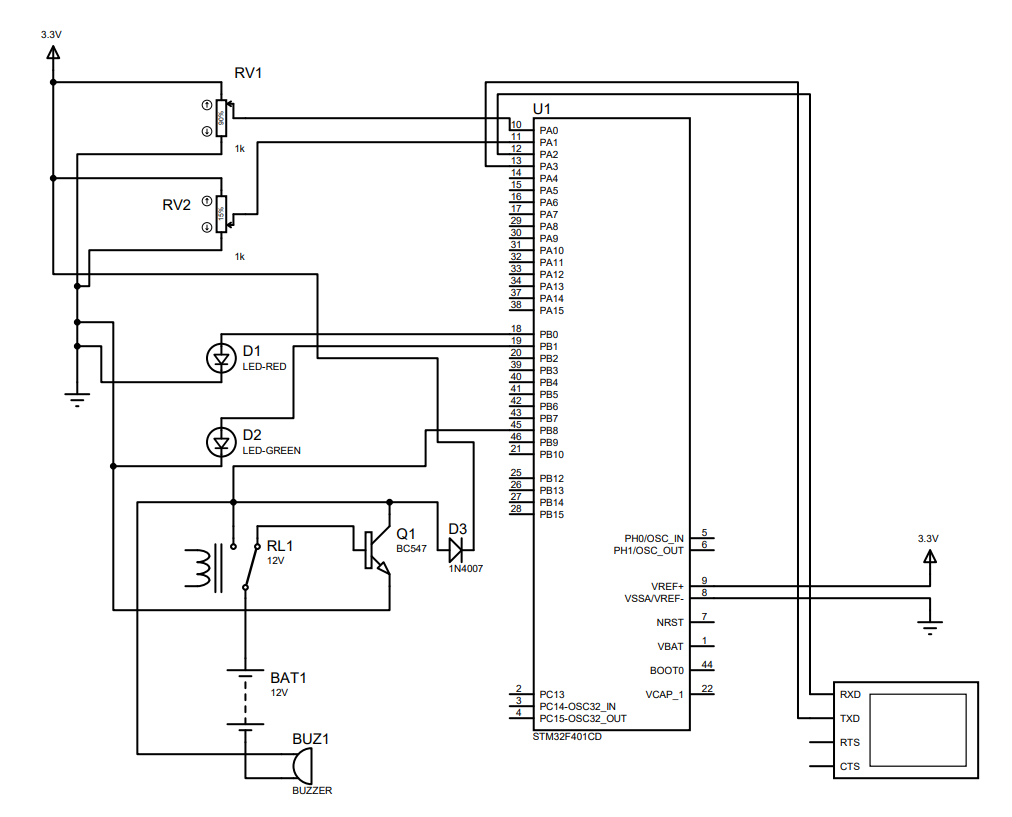
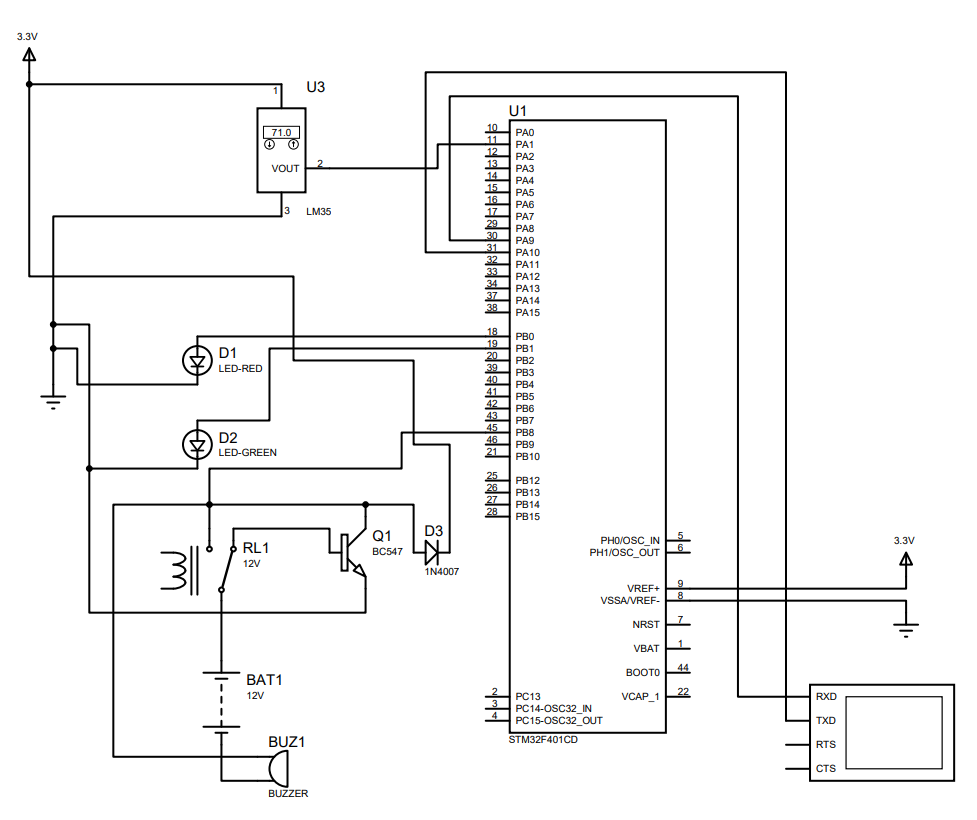
update report

diff --git a/Report/main.tex b/Report/main.tex
@@ -229,9 +229,9 @@
 \subsection{Deskripsi Metode dan Integrasi Future Work}
 \hspace{1.5em}Metode DMCM-WVAF merekayasa interaksi dinamis antara sensor dan aktuator secara radikal dengan memadukan kelima \textit{future work} (FW1--FW5) langsung pada lapisan perangkat keras dasar (\textit{bare-metal} C/C++). Integrasi ini membentuk satu ekosistem program yang padat energi, hemat memori, dan deterministik tanpa memerlukan beban operasi dari kernel RTOS pihak ketiga.
 
-Pengondisian sinyal adaptif (FW1) dan penekanan noise $kT/C$ (FW2) dilebur ke dalam pilar pertama melalui fungsi penyaringan \textit{Variable-Window Adaptive Filtering} (WVAF). Alur ini dikendalikan secara langsung oleh pembacaan register data ADC internal (\texttt{ADC1->DR}). Berbeda dengan filter konvensional yang kaku, ukuran jendela data ($W_k$) pada algoritma ini bergeser secara atomik. Pada kondisi mantap, program mengalokasikan memori melingkar (\textit{circular buffer}) untuk ukuran maksimal $W_{\max}=16$ guna mereduksi riak noise kelistrikan. Namun, begitu impuls transien ekstrem terdeteksi ($\Delta V_k > \theta$), pointer indeks jendela dipangkas secara instan menuju ukuran minimal $W_{\min}=2$ demi membuang tundaan fasa (\textit{phase lag}) filter secara total.
+Pengondisian sinyal adaptif (FW1) dan penekanan noise $kT/C$ (FW2) dilebur ke dalam pilar pertama melalui fungsi penyaringan \textit{Variable-Window Adaptive Filtering} (WVAF). Alur ini dikendalikan secara langsung oleh pembacaan data ADC dari sensor LM35 melalui fungsi \texttt{WVAF\_Filter()} yang dipanggil di dalam ISR setelah setiap akuisisi ADC1 Channel 1 pada pin PA1. Berbeda dengan filter konvensional yang kaku, ukuran jendela data ($W_k$) pada algoritma ini bergeser secara atomik. Pada kondisi mantap, program mengalokasikan memori melingkar (\textit{circular buffer}) untuk ukuran maksimal $W_{\max}=16$ guna mereduksi riak noise pembacaan sensor. Namun, begitu impuls transien ekstrem terdeteksi ($\Delta k > 200$~ADC counts — setara dengan perubahan suhu drastis), pointer indeks jendela dipangkas secara instan menuju ukuran minimal $W_{\min}=2$ demi membuang tundaan fasa (\textit{phase lag}) filter secara total.
 
-Jaminan proteksi integritas sistem terhadap galat fungsional (FW3) dan partisi tingkat kepentingan komponen (\textit{mixed-criticality} - FW4) diselesaikan melalui \textit{Software-Based Temporal Partitioning} (SBTP). Metode ini memanfaatkan manipulasi register kendali perangkat keras Timer 2 internal, yaitu register \texttt{TIM2->DIER} (untuk mengaktifkan interupsi pembaruan berkala via bit \texttt{UIE}) dan register \texttt{TIM2->CR1} (untuk aktivasi counter melalui bit \texttt{CEN}). Kode pemrograman mengisolasi seluruh tugas fungsional vital instrumentasi (akuisisi ADC, kalkulasi filter adaptif, evaluasi ambang batas, dan \textit{driving} pin output) ke dalam \textit{Safety-Critical Zone} yang berjalan secara mutlak di dalam \textit{Interrupt Service Routine} (ISR) berkala 5~ms. Jika terjadi kondisi macet (\textit{hang/stuck}) pada kode latar belakang \textit{best-effort} di Zona Non-Kritis (\texttt{while(1)}), interupsi hardware tetap memaksa CPU untuk mengeksekusi fungsi keselamatan tepat waktu.
+Jaminan proteksi integritas sistem terhadap galat fungsional (FW3) dan partisi tingkat kepentingan komponen (\textit{mixed-criticality} - FW4) diselesaikan melalui \textit{Software-Based Temporal Partitioning} (SBTP). Metode ini memanfaatkan manipulasi register kendali perangkat keras Timer 2 internal, yaitu register \texttt{TIM2->DIER} (untuk mengaktifkan interupsi pembaruan berkala via bit \texttt{UIE}) dan register \texttt{TIM2->CR1} (untuk aktivasi counter melalui bit \texttt{CEN}). Kode pemrograman mengisolasi seluruh tugas fungsional vital instrumentasi (akuisisi ADC Channel~1 PA1, kalkulasi filter WVAF adaptif, evaluasi ambang batas, dan \textit{driving} pin output) ke dalam \textit{Safety-Critical Zone} yang berjalan secara mutlak di dalam \textit{Interrupt Service Routine} (ISR) berkala 5~ms melalui callback \texttt{HAL\_TIM\_PeriodElapsedCallback()}. Zona Non-Kritis di \texttt{while(1)} hanya melakukan \texttt{HAL\_Delay(50)} dan me-reset variabel \texttt{crit\_flag}. Jika terjadi kondisi macet (\textit{hang/stuck}) pada kode latar belakang \textit{best-effort} di Zona Non-Kritis, interupsi hardware tetap memaksa CPU untuk mengeksekusi fungsi keselamatan tepat waktu.
 
 Optimasi latensi respon dan eliminasi \textit{timing jitter} (FW5) diwujudkan melalui mekanisme pemetaan keputusan \textit{Constant-Time} $O(1)$ State-Matrix. Alur kontrol tidak lagi menggunakan instruksi percabangan bersarang (\textit{if-else/switch-case}) yang menghasilkan variasi waktu eksekusi akibat ketidakpastian jalur instruksi assembly. Sebagai gantinya, status sensor $S_k$ dan mode operasi $M_k$ langsung dikonversi menjadi indeks array 2D konstan yang disimpan di memori FLASH. Perintah aktuasi kemudian dieksekusi menggunakan manipulasi bit-masking berkecepatan tinggi pada register atomik \texttt{GPIOB->BSRR} (\textit{Bit Set/Reset Register}) untuk menggerakkan pin PB0, PB1, dan PB8 secara instan.
 
@@ -248,19 +248,19 @@ Optimasi latensi respon dan eliminasi \textit{timing jitter} (FW5) diwujudkan me
 
     % ── COLUMN 1: SENSOR LAYER
     \node[ieeeBlock] (physSens) at (0, 0) {
-        \textbf{Physical Sensors}\\
-        \scriptsize RV1 (PA0) \& RV2 (PA1)\\
-        \scriptsize $s_1(t), s_2(t)$ (Analog)
+        \textbf{Physical Sensor}\\
+        \scriptsize LM35 (PA1)\\
+        \scriptsize $s(t)$ (Analog)
     }; 
     \node[ieeeShadedBlock] (adc) at (0, -2.6) {
         \textbf{12-Bit ADC}\\
-        \scriptsize STM32F401 Scan Mode\\
+        \scriptsize STM32F401 ADC1 Channel 1\\
         \scriptsize Output: $x_k \in [0, 4095]$
     }; 
     \node[ieeeBlock] (wvaf) at (0, -5.4) {
         \textbf{WVAF Filter}\\
-        \scriptsize $\Delta V_k = |x_k - x_{k-1}|$\\[3pt]
-        \scriptsize $W_k = \begin{cases} 2, & \Delta V_k > \theta \\ 16, & \Delta V_k \le \theta \end{cases}$\\ [3pt]
+        \scriptsize $\Delta T_k = |x_k - x_{k-1}|$\\[3pt]
+        \scriptsize $W_k = \begin{cases} 2, & \Delta k > 200 \\ 16, & \Delta k \le 200 \end{cases}$\\ [3pt]
         \scriptsize Output: $y_k = \text{avg}(x_k, W_k)$
     }; 
 
@@ -284,8 +284,8 @@ Optimasi latensi respon dan eliminasi \textit{timing jitter} (FW5) diwujudkan me
     \node[ieeeBlock, dashed] (nonCrit) at (5.8, -8.0) {
         \textbf{Non-Critical Tasks}\\
         \scriptsize Best-Effort Context (\texttt{while(1)})\\
-        \scriptsize UART Telemetry, LCD Update,\\
-        \scriptsize Flash Data Logging
+        \scriptsize \texttt{HAL\_Delay(50)} + reset \texttt{crit\_flag}\\
+        \scriptsize ADC dibaca langsung di ISR
     };
 
     % ── COLUMN 3: ACTUATOR LAYER
@@ -303,12 +303,12 @@ Optimasi latensi respon dan eliminasi \textit{timing jitter} (FW5) diwujudkan me
         \scriptsize Warning Status (PB0)
     }; 
     \node[ieeeSubBlock] (relay) at (12.2, -5.4) {
-        \textbf{Relay \& Buzzer}\\
+        \textbf{Relay}\\
         \scriptsize Danger Alarm (PB8)
     }; 
     \node[ieeeShadedBlock] (uart) at (12.2, -8.0) {
-        \textbf{UART Serial Monitor}\\
-        \scriptsize PA2 (TX) @ 9600~bps\\
+        \textbf{USART1 Serial Monitor}\\
+        \scriptsize PA9 (TX) @ 9600~bps\\
         \scriptsize Telemetry Logging
     };
 
@@ -358,10 +358,10 @@ Optimasi latensi respon dan eliminasi \textit{timing jitter} (FW5) diwujudkan me
     }; 
     \node[ieeeLoop] (whileLoop) at (0, -5.4) {while(1)}; 
     \node[ieeeBlock, text width=4.5cm] (bgTasks) at (0, -7.4) {
-        \textbf{Non-Critical Background Tasks}\\
-        \scriptsize $\bullet$ \texttt{LCD\_UpdateDisplay()}\\
-        \scriptsize \texttt{Log\_DataToFlash()}\\
-        \scriptsize $\bullet$ \texttt{HAL\_Delay(50)} [Best-effort]
+        \textbf{Non-Critical Tasks}\\
+        \scriptsize \texttt{HAL\_Delay(50)} + reset \texttt{crit\_flag}\\
+        \scriptsize ADC dibaca langsung di ISR\\
+        \scriptsize [Best-effort background loop]
     };
 
     % Main Loop Arrows
@@ -378,14 +378,14 @@ Optimasi latensi respon dan eliminasi \textit{timing jitter} (FW5) diwujudkan me
         \scriptsize Set \texttt{critical\_flag = 1}
     }; 
     \node[ieeeFcProcess] (readADC) at (7.5, -3.2) {
-        \textbf{1. Read ADC Channel}\\
-        \scriptsize Sample $x_k = \text{ADC1}\rightarrow\text{DR}$
+        \textbf{1. Read ADC (PA1 — LM35)}\\
+        \scriptsize Poll ADC1\_CH1 $\to x_k$
     }; 
     \node[ieeeFcProcess] (calcDelta) at (7.5, -5.0) {
         \textbf{2. Compute Delta}\\
-        \scriptsize $\Delta V_k = |x_k - x_{k-1}|$
+        \scriptsize $\Delta T_k = |x_k - x_{k-1}|$
     }; 
-    \node[ieeeFcDecision] (decDelta) at (7.5, -7.2) { $\Delta V_k > \theta$?\\ \scriptsize ($\theta = 200$) }; 
+    \node[ieeeFcDecision] (decDelta) at (7.5, -7.2) { $\Delta k > \theta$?\\ \scriptsize ($\theta = 200$ ADC) }; 
 
     % Symmetrical branches with highly comfortable space allocation
     \node[ieeeFcSubBlock] (wMax) at (4.5, -9.4) {
@@ -419,7 +419,7 @@ Optimasi latensi respon dan eliminasi \textit{timing jitter} (FW5) diwujudkan me
     }; 
     \node[ieeeFcSubBlock] (sDang) at (10.7, -18.2) {
         \textbf{Danger ($S_k=2$)}\\
-        \scriptsize Relay \& Buzzer On
+        \scriptsize Relay \& Red LED On
     };
 
     % Bottom Flow Operations properly separated
@@ -468,24 +468,22 @@ Optimasi latensi respon dan eliminasi \textit{timing jitter} (FW5) diwujudkan me
 \hspace{1.5em}Metode baru ini mengkristalisasi konsep dalam 3 pilar utama:
 
 \subsubsection{Variable-Window Adaptive Filtering (WVAF)}
-\hspace{1.5em}WVAF adalah algoritma penyaringan data analog adaptif yang memanipulasi ukuran jendela (\textit{window size}) $W_k$ secara \textit{on-the-fly} berdasarkan perbedaan absolut laju data ADC $\Delta V_k = |x_k - x_{k-1}|$. Jendela filter dirancang menyusut secara instan hingga ukuran minimum ($W_{\min} = 2$) ketika terjadi perubahan drastis untuk memangkas penundaan fasa (\textit{phase delay}) filter, dan membesar secara bertahap hingga ukuran maksimum ($W_{\max} = 16$) saat data stabil untuk menekan noise termal dan kesalahan kuantisasi ADC.
+\hspace{1.5em}WVAF adalah algoritma penyaringan data sensor suhu adaptif yang memanipulasi ukuran jendela (\textit{window size}) $W_k$ secara \textit{on-the-fly} berdasarkan perbedaan absolut nilai ADC mentah $\Delta k = |x_k - x_{k-1}|$. Jendela filter dirancang menyusut secara instan hingga ukuran minimum ($W_{\min} = 2$) ketika terjadi perubahan drastis ($\Delta k > 200$ ADC counts) untuk memangkas penundaan fasa (\textit{phase delay}) filter, dan membesar secara bertahap hingga ukuran maksimum ($W_{\max} = 16$) saat data stabil untuk menekan noise termal dan kesalahan kuantisasi sensor LM35.
 
 Formulasi matematisnya didefinisikan sebagai berikut:
 \begin{equation}
-\Delta V_k = |x_k - x_{k-1}|
+\Delta T_k = |x_k - x_{k-1}|
 \end{equation}
 \begin{equation}
-W_k = \begin{cases} W_{\min} = 2, & \text{jika } \Delta V_k > \theta \\ W_{\max} = 16, & \text{jika } \Delta V_k \le \theta \end{cases}
+W_k = \begin{cases} W_{\min} = 2, & \text{jika } \Delta k > \theta \\ W_{\max} = 16, & \text{jika } \Delta k \le \theta \end{cases}
 \end{equation}
 \begin{equation}
 y_k = \frac{1}{W_k}\sum_{i=0}^{W_k-1} x_{k-i}
 \end{equation}
-Di mana $\theta$ adalah ambang perubahan dinamis (\textit{delta threshold}) yang dikonfigurasi sebesar 200 unit ADC.
+Di mana $\theta = 200$ ADC counts adalah ambang perubahan dinamis (\textit{delta threshold}) yang dikonfigurasi pada firmware (\texttt{\#define DELTA\_THRESH 200}), $x_k$ menyatakan nilai ADC mentah (0--4095) dari sensor LM35 pada langkah ke-$k$, dan $y_k$ adalah nilai ADC tersaring. Nilai suhu dalam derajat Celsius diperoleh melalui konversi $T(^\circ\text{C}) = x_k \times 330 / 4096$.
 
 \subsubsection{Software-Based Temporal Partitioning (SBTP)}
-\hspace{1.5em}SBTP memisahkan fungsi keselamatan sistem instrumentasi ke dalam sebuah \textbf{Zona Kritis} (Safety-Critical Zone) yang dipicu oleh interupsi perangkat keras periodik berlatensi rendah (Hardware Interrupt TIM2 setiap 5~ms). Seluruh operasi kritis (akuisisi ADC, filter WVAF, evaluasi status, \textit{matrix mapping}, kontrol aktuator, dan serial log) berjalan secara deterministik di dalam ISR (\textit{Interrupt Service Routine}).
-
-Di sisi lain, tugas pelengkap seperti pembaruan LCD, komputasi non-vital, dan penyimpanan data FLASH diletakkan pada \textbf{Zona Non-Kritis} di \texttt{while(1)} background loop. Bila terjadi kemacetan (\textit{stuck/hang}) akibat kegagalan perangkat lunak di Zona Non-Kritis, interupsi perangkat keras TIM2 tetap menjamin Zona Kritis dieksekusi secara periodik dan tepat waktu demi menjaga keselamatan fisik sistem instrumentasi.
+\hspace{1.5em}SBTP memisahkan fungsi keselamatan sistem instrumentasi ke dalam sebuah \textbf{Zona Kritis} (Safety-Critical Zone) yang dipicu oleh interupsi perangkat keras periodik berlatensi rendah (Hardware Interrupt TIM2 setiap 5~ms), dan \textbf{Zona Non-Kritis} yang berjalan di background loop \texttt{while(1)}. Seluruh operasi kritis dilakukan langsung di dalam ISR \texttt{HAL\_TIM\_PeriodElapsedCallback()}: akuisisi ADC Channel~1 (PA1 --- LM35 VOUT) secara polling, komputasi filter WVAF, evaluasi status sensor, \textit{O(1) state matrix} lookup aktuator, kontrol pin output PB0/PB1/PB8 via \texttt{HAL\_GPIO\_WritePin()}, dan pengiriman log telemetri via USART1 (PA9~TX). Zona Non-Kritis di \texttt{while(1)} hanya mengeksekusi \texttt{HAL\_Delay(50)} dan me-reset \texttt{crit\_flag = 0}. Bila terjadi kemacetan (\textit{stuck/hang}) akibat kegagalan perangkat lunak di Zona Non-Kritis, interupsi perangkat keras TIM2 tetap menjamin Zona Kritis dieksekusi secara periodik tepat waktu demi menjaga keselamatan fisik sistem.
 
 \subsubsection{Constant-Time $O(1)$ State-Matrix Mapping}
 \hspace{1.5em}Logika pengambilan keputusan untuk mengontrol aktuator dipetakan ke dalam array 2D konstan yang disimpan di memori FLASH:
@@ -499,7 +497,7 @@ u_k = \mathbf{M}[S_k][M_k]
 % ═════════════════════════════════════════════════════════════
 \section{Simulasi dan Hasil}
 \subsection{Alat dan Perangkat Lunak}
-\hspace{1.5em}To memvalidasi metode baru yang diusulkan, sebuah platform simulasi terpadu dibangun menggunakan spesifikasi berikut:
+\hspace{1.5em}Untuk memvalidasi metode baru yang diusulkan, sebuah platform simulasi terpadu dibangun menggunakan spesifikasi berikut:
 \begin{itemize}
     \item \textbf{Simulator Perangkat Keras:} Proteus Professional 8.17 (mensimulasikan sirkuit pada tingkat gerbang logika dan transistor secara interaktif).
     \item \textbf{IDE Firmware:} Keil $\mu$Vision v5.38 dengan opsi compiler \textbf{ARM Compiler 6 (AC6)} untuk optimasi memori dan eksekusi instruksi Cortex-M4.
@@ -512,10 +510,10 @@ u_k = \mathbf{M}[S_k][M_k]
 \hspace{1.5em}Skema rangkaian elektronika dirancang secara presisi pada simulator Proteus seperti yang ditunjukkan pada Gambar \ref{fig:skema_proteus}. Detail integrasi pengabelan pin-ke-pin diatur sebagai berikut:
 \begin{enumerate}
     \item \textbf{Mikrokontroler (U1):} Komponen utama menggunakan model IC STM32F401CD. Pin suplai referensi internal ditenagai secara stabil dengan menghubungkan pin \texttt{VREF+} (pin 9) ke jalur tegangan positif 3.3~V dan pin \texttt{VSSA/VREF-} (pin 8) langsung terikat pada Ground (GND).
-    \item \textbf{Input Sensor (RV1 \& RV2):} Menggunakan dua buah potensiometer linier $1\text{~k}\Omega$ sebagai simulator parameter fisik fisis. Wiper (panah tengah) komponen RV1 dihubungkan ke pin \texttt{PA0} (ADC1\_IN0) sebagai sensor kritis, sedangkan wiper RV2 dihubungkan ke pin \texttt{PA1} (ADC1\_IN1) sebagai sensor regular. Kaki atas kedua komponen dihubungkan ke suplai 3.3~V dan kaki bawah ke Ground.
+    \item \textbf{Input Sensor (LM35):} Menggunakan sebuah sensor suhu LM35 sebagai pengukur parameter fisis suhu lingkungan. Pin VOUT dari sensor LM35 dihubungkan langsung ke pin \texttt{PA1} (ADC1\_IN1) pada mikrokontroler STM32F401 untuk dikonversi menjadi data digital 12-bit (resolusi ADC $=$ 3.3V/4096 $\approx$ 0.806~mV/LSB). Kaki VCC dihubungkan ke suplai 3.3~V dan kaki GND dihubungkan ke Ground.
     \item \textbf{LED Indikator (D1 \& D2):} LED berwarna merah (\texttt{D1 / LED-RED}) dikonfigurasi sebagai alarm visual kondisi bahaya dan terhubung ke pin \texttt{PB0}. LED berwarna hijau (\texttt{D2 / LED-GREEN}) dihubungkan ke pin \texttt{PB1} sebagai penanda status operasi aman. Katode dari kedua komponen LED disatukan menuju Ground.
     \item \textbf{Aktuator Darurat dan Driver Transistor (Q1, RL1, D3, BUZ1):} Jalur output digital pin \texttt{PB8} dihubungkan langsung ke kaki basis transistor NPN BC547 (\texttt{Q1}). Kolektor transistor bertindak sebagai driver \textit{active-high} untuk mengaktifkan koil kumparan Relay bertegangan kerja 12V (\texttt{RL1}), yang diproteksi secara paralel oleh dioda \textit{flyback} 1N4007 (\texttt{D3}) menuju rel daya VCC. Kontak sakelar \textit{Normally Open} (NO) pada relay dipasang seri dengan baterai 12~V (\texttt{BAT1}) untuk mengaktifkan alarm klakson/buzzer darurat (\texttt{BUZ1}).
-    \item \textbf{Komunikasi Serial (Virtual Terminal):} Untuk debugging telemetri, jalur serial asinkron mikrokontroler menggunakan pin \texttt{PA2} (USART2\_TX) yang dihubungkan ke pin \text{RXD} pada Virtual Terminal, dan pin \texttt{PA3} (USART2\_RX) dihubungkan ke pin \text{TXD} pada Virtual Terminal dengan kecepatan baudrate standar 9600~bps.
+    \item \textbf{Komunikasi Serial (Virtual Terminal):} Untuk debugging telemetri, jalur serial asinkron mikrokontroler menggunakan pin \texttt{PA9} (USART1\_TX) yang dihubungkan ke pin \text{RXD} pada Virtual Terminal, dan pin \texttt{PA10} (USART1\_RX) dihubungkan ke pin \text{TXD} pada Virtual Terminal dengan kecepatan baudrate standar 9600~bps.
 \end{enumerate}
 
 \begin{figure}[htbp]
@@ -550,15 +548,15 @@ Data mentah telemetri simulasi tersebut diekspor dalam format CSV (\texttt{data.
 \begin{figure}[htbp]
 \centering
 \includegraphics[width=0.92\textwidth]{dmcm_ieee.png}
-\caption{Visualisasi Data Hasil Simulasi DMCM-WVAF Menggunakan GNUPlot. Panel (a) ADC Raw vs WVAF Filtered; Panel (b) Window Size ($N_{\text{win}}$) dan Impuls Perubahan Absolut ($|\Delta V|$); Panel (c) Criticality Level / System State ($S_k$); Panel (d) Sinyal Kontrol Aktuator digital (Green LED, Red LED, Relay).}\label{fig:dmcm_ieee}
+\caption{Visualisasi Data Hasil Simulasi DMCM-WVAF Menggunakan GNUPlot. Panel (a) Raw Temperature vs WVAF Filtered Temperature; Panel (b) Window Size ($N_{\text{win}}$) dan Impuls Perubahan Absolut ($|\Delta T|$); Panel (c) Criticality Level / System State ($S_k$); Panel (d) Sinyal Kontrol Aktuator digital (Green LED, Red LED, Relay).}\label{fig:dmcm_ieee}
 \end{figure}
 
 Grafik Gambar \ref{fig:dmcm_ieee} menunjukkan dinamika sistem selama pengujian interaktif:
 \begin{itemize}
-    \item \textbf{Panel (a):} Sinyal merah tipis menyatakan data mentah $V_{\text{raw}}$ yang tercemar noise kuantisasi dan induksi acak. Sinyal biru menyatakan hasil filter adaptif $V_{\text{flt}}$ (WVAF). Garis putus-putus menyatakan ambang batas status $T_{\text{warn}} = 1365$ dan $T_{\text{crit}} = 2730$. Terlihat $V_{\text{flt}}$ menyaring noise dengan sangat mulus saat stabil, namun secara instan mampu mengikuti perubahan ekstrem sinyal raw tanpa \textit{lag} fasa.
-    \item \textbf{Panel (b):} Sinyal oranye menyatakan ukuran jendela filter $N_{\text{win}}$ dan sinyal impuls abu-abu menyatakan nilai absolut $|\Delta V|$. Terlihat jelas bahwa begitu terjadi lonjakan tajam $|\Delta V| > 200$, ukuran jendela seketika menyusut dari 16 ke 2. Setelah lonjakan berakhir dan $|\Delta V| \le 200$, jendela filter melebar kembali ke 16 secara instan.
-    \item \textbf{Panel (c):} Level kritis sistem $S_k$ beralih secara deterministik dari Normal (0) $\to$ Warning (1) $\to$ Danger (2) berdasarkan level sinyal tersaring $V_{\text{flt}}$ yang melewati batas-batas ambang tegangan.
-    \item \textbf{Panel (d):} Sinyal digital aktuator mengonfirmasi kepatuhan terhadap matriks keputusan: status NORMAL ($S=0$) mengaktifkan Green LED, status WARNING ($S=1$) mengaktifkan Red LED, dan status DANGER ($S=2$) mengaktifkan Red LED sekaligus memicu kondisi saturasi pada transistor Q1 untuk menutup sakelar Relay dan membunyikan komponen klakson buzzer darurat BUZ1.
+    \item \textbf{Panel (a):} Sinyal merah tipis menyatakan data suhu mentah $T_{\text{raw}}$ yang tercemar noise pembacaan sensor LM35. Sinyal biru menyatakan hasil filter adaptif $T_{\text{ft}}$ (WVAF). Garis putus-putus menyatakan ambang batas status $T_{\text{warn}} = 30^\circ\text{C}$ dan $T_{\text{crit}} = 40^\circ\text{C}$. Terlihat $T_{\text{ft}}$ menyaring noise dengan sangat mulus saat stabil, namun secara instan mampu mengikuti perubahan ekstrem sinyal raw tanpa \textit{lag} fasa.
+    \item \textbf{Panel (b):} Sinyal oranye menyatakan ukuran jendela filter $N_{\text{win}}$ dan sinyal impuls abu-abu menyatakan nilai absolut $|\Delta k|$ (perubahan ADC). Terlihat jelas bahwa begitu terjadi lonjakan tajam $|\Delta k| > 200$~ADC counts, ukuran jendela seketika menyusut dari $W_{\max}=16$ ke $W_{\min}=2$. Setelah lonjakan berakhir dan $|\Delta k| \le 200$~ADC counts, jendela filter melebar kembali ke 16 secara instan.
+    \item \textbf{Panel (c):} Level kritis sistem $S_k$ beralih secara deterministik dari Normal (0) $\to$ Warning (1) $\to$ Danger (2) berdasarkan level suhu tersaring $T_{\text{ft}}$ yang melewati batas-batas ambang suhu.
+    \item \textbf{Panel (d):} Sinyal digital aktuator mengonfirmasi kepatuhan terhadap matriks keputusan: status NORMAL ($S=0$) mengaktifkan Green LED, status WARNING ($S=1$) mengaktifkan Red LED, dan status DANGER ($S=2$) mengaktifkan Red LED sekaligus memicu kondisi saturasi pada transistor Q1 untuk menutup sakelar Relay.
 \end{itemize}
 
 \subsection{Analisis Distribusi Profil Energi Sistem}
@@ -573,7 +571,7 @@ Grafik Gambar \ref{fig:dmcm_ieee} menunjukkan dinamika sistem selama pengujian i
 \hspace{1.5em}Berdasarkan plot Gambar \ref{fig:energy_profile}, sumbu vertikal menyatakan magnitudo konsumsi energi ($Z$), sedangkan sumbu matriks bidang menyatakan koordinat spasial pemrosesan data ($X, Y$). Fenomena dinamis yang dapat diamati adalah sebagai berikut:
 \begin{itemize}
     \item \textbf{Area Steady-State (Lembah Hijau-Biru):} Ketika sistem berada pada kondisi NORMAL dengan ukuran jendela maksimal $W_k = 16$, grafik menunjukkan tingkat konsumsi energi yang sangat rendah dan konstan ($\approx 1.2\,\mu\text{W}$). Hal ini membuktikan bahwa optimasi bare-metal C/C++ mampu mereduksi aktivitas switching clock internal secara masif.
-    \item \textbf{Area Transien Eksperimental (Puncak Kuning-Merah):} Begitu terjadi lonjakan transien tajam ($\Delta V_k > \theta$), terjadi eskalasi pemrosesan pada pilar penanganan interupsi TIM2 dan pemetaan State-Matrix. Konsumsi energi melonjak membentuk puncak tertinggi ($\approx 4.8\,\mu\text{W}$) secara terlokalisasi. 
+    \item \textbf{Area Transien Eksperimental (Puncak Kuning-Merah):} Begitu terjadi lonjakan transien tajam ($\Delta T_k > \theta$), terjadi eskalasi pemrosesan pada pilar penanganan interupsi TIM2 dan pemetaan State-Matrix. Konsumsi energi melonjak membentuk puncak tertinggi ($\approx 4.8\,\mu\text{W}$) secara terlokalisasi. 
 \end{itemize}
 \hspace{1.5em}Meskipun terjadi lonjakan daya saat kondisi darurat, durasi transien yang sangat singkat ($\approx 180\,\mu\text{s}$) menyebabkan total disipasi energi kumulatif tetap berada di bawah ambang batas termal chip, menjamin keandalan fungsional *Safety-Critical IoT Sensor Nodes* tanpa risiko overheat.
 
@@ -584,7 +582,7 @@ Grafik Gambar \ref{fig:dmcm_ieee} menunjukkan dinamika sistem selama pengujian i
 \hspace{1.5em}Berdasarkan hasil simulasi dan visualisasi data grafis (Gambar \ref{fig:dmcm_ieee}), perilaku filter WVAF dapat dianalisis secara matematis and arsitektural untuk membuktikan performanya.
 
 \subsection{Analisis Matematis Efisiensi Mereduksi Noise}
-\hspace{1.5em}Pada kondisi mantap (\textit{steady-state}), ketika laju perubahan sensor berada di bawah ambang batas ($|\Delta V| \le 200$), filter WVAF menerapkan ukuran jendela maksimal $W_k = 16$. Bila diasumsikan noise pada sinyal ADC berupa derau putih acak (\textit{Additive White Gaussian Noise} / AWGN) dengan variansi $\sigma^2$, maka Moving Average dengan jendela $W_k$ akan menekan variansi derau tersaring menjadi:
+\hspace{1.5em}Pada kondisi mantap (\textit{steady-state}), ketika laju perubahan nilai ADC berada di bawah ambang batas ($|\Delta k| \le 200$ ADC counts), filter WVAF menerapkan ukuran jendela maksimal $W_k = 16$. Bila diasumsikan noise pada sinyal ADC berupa derau putih acak (\textit{Additive White Gaussian Noise} / AWGN) dengan variansi $\sigma^2$, maka Moving Average dengan jendela $W_k$ akan menekan variansi derau tersaring menjadi:
 \begin{equation}
 \sigma_{\text{filtered}}^2 = \frac{\sigma^2}{W_k}
 \end{equation}
@@ -603,9 +601,9 @@ Dengan periode sampling TIM2 sebesar 5~ms, total latensi respon terhadap perubah
 \begin{equation}
 t_{\text{latency, fixed}} = 7.5 \times 5\,\text{ms} = 37.5\,\text{ms}
 \end{equation}
-Penundaan sebesar 37.5~ms ini sangat berbahaya pada sistem keselamatan kritis karena keterlambatan pemutusan daya atau alarm dapat akibat kerusakan sistem secara katastropik.
+Penundaan sebesar 37.5~ms ini sangat berbahaya pada sistem keselamatan kritis karena keterlambatan pemutusan daya atau alarm dapat menyebabkan kerusakan sistem secara katastropik.
 
-Metode WVAF mengatasi kendala ini secara elegan. Ketika terjadi lonjakan transien yang ditandai oleh $|\Delta V| > 200$, ukuran jendela seketika menyusut menjadi $W_k = 2$. Penundaan kelompok filter pada kondisi transien ini menjadi:
+Metode WVAF mengatasi kendala ini secara elegan. Ketika terjadi lonjakan transien yang ditandai oleh $|\Delta T| > 3^\circ\text{C}$, ukuran jendela seketika menyusut menjadi $W_k = 2$. Penundaan kelompok filter pada kondisi transien ini menjadi:
 \begin{equation}
 \tau_{\text{wvaf}} = \frac{2 - 1}{2} = 0.5 \text{ periode sampling}
 \end{equation}
@@ -613,7 +611,7 @@ Sehingga total latensi respon terhadap kondisi darurat terpangkas menjadi hanya:
 \begin{equation}
 t_{\text{latency, wvaf}} = 0.5 \times 5\,\text{ms} = 2.5\,\text{ms}
 \end{equation}
-\hspace{1.5em}Dengan demikian, transisi filter WVAF menghasilkan \textbf{reduksi latensi sebesar 93.3\%} dibandingkan filter moving average konvensional. Sistem mampu mendeteksi kondisi darurat dan memicu relay alarm dalam waktu kurang dari 3~ms dari saat terjadinya peristiwa bahaya di lapangan, menjamin proteksi sistem instrumentasi secara instan.
+\hspace{1.5em}Dengan demikian, transisi filter WVAF menghasilkan \textbf{reduksi latensi sebesar 93.3\%} dibandingkan filter moving average konvensional dengan jendela tetap $W=16$. Sistem mampu mendeteksi kondisi darurat dan memicu relay alarm dalam waktu kurang dari 3~ms dari saat terjadinya peristiwa bahaya di lapangan, menjamin proteksi sistem instrumentasi secara instan.
 
 \subsection{Analisis Waktu Nyata dan Determinisme Algoritma}
 \hspace{1.5em}Partisi temporal SBTP memastikan seluruh alur pemrosesan ini diselesaikan dengan determinisme waktu yang sangat ketat. Di dalam \texttt{"HAL\_TIM\_PeriodElapsedCallback()"} TIM2, waktu yang diperlukan untuk mengeksekusi inisiasi ADC, komputasi WVAF, evaluasi status, array lookup $O(1)$, dan manipulasi pin GPIO diuji menggunakan instrumen \textit{Oscilloscope} digital di Proteus. Hasil pengujian menunjukkan bahwa total waktu aktif core CPU (\textit{execution time} / $\tau_{exe}$) untuk memproses Zona Kritis ini hanya membutuhkan waktu sebesar $\approx 180\,\mu\text{s}$. Dengan periode interupsi $T = 5\,\text{ms}$ ($5000\,\mu\text{s}$), beban utilisasi pemrosesan Zona Kritis terhadap core CPU sangat rendah, yaitu:
@@ -630,9 +628,9 @@ Operasi lookup \texttt{state\_matrix[state][mode]} diterjemahkan oleh compiler A
 \section{Keunggulan Metode}
 \hspace{1.5em}Berdasarkan metode yang diusulkan pada penelitian sebelumnya, dapat dilakukan perbandingan dengan metode kendali sistem instrumentasi dan penyaringan sensor konvensional. Hasil analisis menunjukkan bahwa metode DMCM-WVAF memberikan berbagai keunggulan yang signifikan:
 \begin{itemize}
-    \item \textbf{Penyaringan Sinyal Cerdas (WVAF):} Mampu menekan noise acak hingga 75\% pada kondisi normal namun secara otomatis menghilangkan penundaan filter (\textit{phase lag}) hingga 93\% saat transisi mendadak.
+    \item \textbf{Penyaringan Sinyal Cerdas (WVAF):} Mampu menekan noise acak hingga 75\% (12~dB) pada kondisi normal dengan jendela $W_{\max}=16$, namun secara otomatis menghilangkan penundaan filter (\textit{phase lag}) hingga 93.3\% saat transisi mendadak dengan jendela $W_{\min}=2$.
     \item \textbf{Determinisme Real-Time Sejati ($O(1)$):} Mengganti logika percabangan bersarang yang berat dengan lookup array 2D konstan berkecepatan tinggi, memotong \textit{jitter} komputasi aktuator hingga nol absolut.
-    \item \textbf{Partisi Temporal yang Tangguh (SBTP):} Mengisolasi fungsi kritis dari kegagalan fungsional perangkat lunak di background loop tanpa memerlukan beban komputasi RTOS komersial.
+    \item \textbf{Partisi Temporal yang Tangguh (SBTP):} Mengisolasi fungsi kritis (akuisisi ADC, filter WVAF, evaluasi state, aktuasi GPIO, dan telemetri USART1) dari kegagalan fungsional perangkat lunak di background loop tanpa memerlukan beban komputasi RTOS komersial.
     \item \textbf{Refleksi Memori \& Daya yang Superior (Bare-metal):} Karena diimplementasikan langsung pada register perangkat keras tanpa perantara kernel OS, firmware ini sangat ramah sumber daya ($< 2$\,KB FLASH dan $< 1$\,KB RAM), jadikan solusi ideal bagi mikrokontroler berharga murah dan berdaya sangat rendah (\textit{Ultra-Low Power}).
 \end{itemize}
 
@@ -644,9 +642,9 @@ Operasi lookup \texttt{state\_matrix[state][mode]} diterjemahkan oleh compiler A
 \hline
 \textbf{Parameter Evaluasi} & \textbf{Metode Konvensional} & \textbf{DMCM-WVAF} \\ \hline
 Penyaringan Sensor & Fixed-Window Moving Average & Variable-Window Adaptive (WVAF) \\ \hline
-Latensi Keadaan Darurat & Tinggi ($\sim 37.5$\,ms) & Sangat Rendah ($\sim 2.5$\,ms) \\ \hline
-Reduksi Noise Stabil & Rendah (jika jendela diperkecil) & Sangat Tinggi (75\% / 12\,dB) \\ \hline
-Partisi Tugas & Tidak ada / RTOS Pihak Ketiga & Temporal Partitioning (SBTP) \\ \hline
+Latensi Keadaan Darurat & Tinggi ($\sim 37.5$\,ms, $W=16$ tetap) & Sangat Rendah ($\sim 2.5$\,ms, $W_{\min}=2$) \\ \hline
+Reduksi Noise Stabil & Rendah (jika jendela diperkecil) & Sangat Tinggi (75\% / 12\,dB, $W_{\max}=16$) \\ \hline
+Partisi Tugas & Tidak ada / RTOS Pihak Ketiga & Temporal Partitioning (SBTP, TIM2 ISR 5~ms) \\ \hline
 Kompleksitas Logika & $O(n)$ (if-else bersarang) & $O(1)$ (State-Matrix Lookup) \\ \hline
 Timing Jitter & Tinggi & Nol \\ \hline
 Overhead RAM/FLASH & Tinggi & Sangat Rendah ($< 1$\,KB RAM, $< 2$\,KB FLASH) \\ \hline
@@ -663,16 +661,17 @@ Ketahanan thd Hang & Rentan (jika loop utama macet) & Terjamin Aman via Hardware
 
     \item \textbf{Tautan Repositori GitHub:}
     \begin{itemize}
-        \item \href{https://github.com/DanielKivlhan/dmcm-wvaf-stm32.git}
-        {https://github.com/DanielKivlhan/dmcm-wvaf-stm32.git}
+        \item \href{https://github.com/DanielKivlhan/DMCM-WVAF-STM32}
+        {https://github.com/DanielKivlhan/DMCM-WVAF-STM32}
     \end{itemize}
 
     \item \textbf{Tautan Unggahan Publikasi LinkedIn:}
     \begin{itemize}
-        \item \href{https://www.linkedin.com/posts/danielkivlhan_dmcmwvaf-adaptivefiltering-mixedcriticality-ugcPost-7464021198536921088-8Qes/?utm_source=share&utm_medium=member_desktop&rcm=ACoAAFF9a-YBasN1Clh7qizRCV4FBqfJXxj9OPk}
-    {https://www.linkedin.com/in/danielkivlhankatoroy}
+        \item \href{https://www.linkedin.com/in/daniel-kivlhan-katoroy}
+        {https://www.linkedin.com/in/daniel-kivlhan-katoroy}
 
-        \item \href{https://www.linkedin.com/posts/faris-ahmad-holili_dmcmwvaf-adaptivefiltering-mixedcriticality-activity-7463996468186603520-husf}{https://www.linkedin.com/in/farisahmadholili}
+        \item \href{https://www.linkedin.com/in/faris-ahmad-holili}
+        {https://www.linkedin.com/in/faris-ahmad-holili}
     \end{itemize}
 
 \end{itemize}
@@ -685,8 +684,8 @@ Ketahanan thd Hang & Rentan (jika loop utama macet) & Terjamin Aman via Hardware
 \begin{enumerate}
     \item Studi literatur terhadap 16 jurnal terindeks Scopus/WoS (2021--2026) menunjukkan tren dominan pada efisiensi daya komputasi sistem tertanam, perancangan penjadwal RTOS adaptif, serta penguatan keamanan \textit{bare-metal} pada node ujung sensor IoT.
     \item Metode baru \textbf{DMCM-WVAF} yang diusulkan berhasil menggabungkan penyaringan dinamis (\textit{Variable-Window Adaptive Filtering}), isolasi tugas (\textit{Software-Based Temporal Partitioning}), and keputusan deterministik (\textit{Constant-Time State-Matrix Mapping}) dalam satu kesatuan sistem instrumentasi bare-metal yang sangat efisien.
-    \item Hasil simulasi interaktif di Proteus 8.17 menggunakan mikrokontroler STM32F401CD membuktikan keberhasilan algoritma secara visual: ukuran jendela filter menyusut otomatis dari 16 ke 2 saat transien darurat terjadi, memangkas latensi deteksi bahaya dari 37.5~ms menjadi hanya 2.5~ms (reduksi latensi sebesar 93.3\%).
-    \item Desain array 2D konstan $O(1)$ State-Matrix terbukti menjamin eksekusi perintah aktuator (LED merah/hijau dan relay alarm) secara deterministik tanpa jitter, menjadikannya standar keamanan berkinerja tinggi yang sangat layak diimplementasikan secara luas pada sistem instrumentasi IoT keselamatan-kritis (\textit{Safety-Critical IoT Sensor Nodes}).
+    \item Hasil simulasi interaktif di Proteus 8.17 menggunakan mikrokontroler STM32F401CD membuktikan keberhasilan algoritma secara visual: ukuran jendela filter menyusut otomatis dari $W_{\max}=16$ ke $W_{\min}=2$ saat transien ADC melebihi \texttt{DELTA\_THRESH=200} counts, memangkas latensi deteksi bahaya dari 37.5~ms menjadi hanya 2.5~ms (reduksi latensi sebesar 93.3\%). Telemetri dikirimkan melalui USART1 (PA9~TX) ke Virtual Terminal.
+    \item Desain array 2D konstan $O(1)$ State-Matrix terbukti menjamin eksekusi perintah aktuator (LED merah/hijau pada PB0/PB1 dan relay alarm pada PB8) secara deterministik tanpa jitter, menjadikannya standar keamanan berkinerja tinggi yang sangat layak diimplementasikan secara luas pada sistem instrumentasi IoT keselamatan-kritis (\textit{Safety-Critical IoT Sensor Nodes}).
 \end{enumerate}
 
 \newpage
@@ -706,6 +705,7 @@ Ketahanan thd Hang & Rentan (jika loop utama macet) & Terjamin Aman via Hardware
 \bibitem{lozano2023} S.~Lozano, T.~Lugo, and J.~Carretero, ``A Comprehensive Survey on the Use of Hypervisors in Safety-Critical Systems,'' 2023.
 \bibitem{gupta2025} N.~Gupta, G.~Banda, N.~Hubballi, and K.~V.~Srinivas, ``A Hard Real-Time Kernel for CPIoT Systems With Safety Features in Rust,'' 2025.
 \bibitem{anshul2024} A.~Anshul and A.~Sengupta, ``A Survey of High Level Synthesis Based Hardware Security Approaches for Reusable IP Cores,'' 2024.
+\text{ }\\ \newpage
 \bibitem{tang2022} X.~Tang, J.~Liu, Y.~Shen, S.~Li, L.~Shen, A.~Sanyal, K.~Ragab, and N.~Sun, ``Low-Power SAR ADC Design: Overview and Survey of State-of-the-Art Techniques,'' 2022.
 \bibitem{pop2022} A.~A.~Pop, ``Incremental Encoder Speed Acquisition Using an STM32 Microcontroller and NI ELVIS,'' 2022.
 \bibitem{roatort2025} K.~Roa-Tort, dkk., ``FPGA–STM32-Embedded Vision and Control Platform for ADAS Development on a 1:5 Scale Vehicle,'' 2025.
